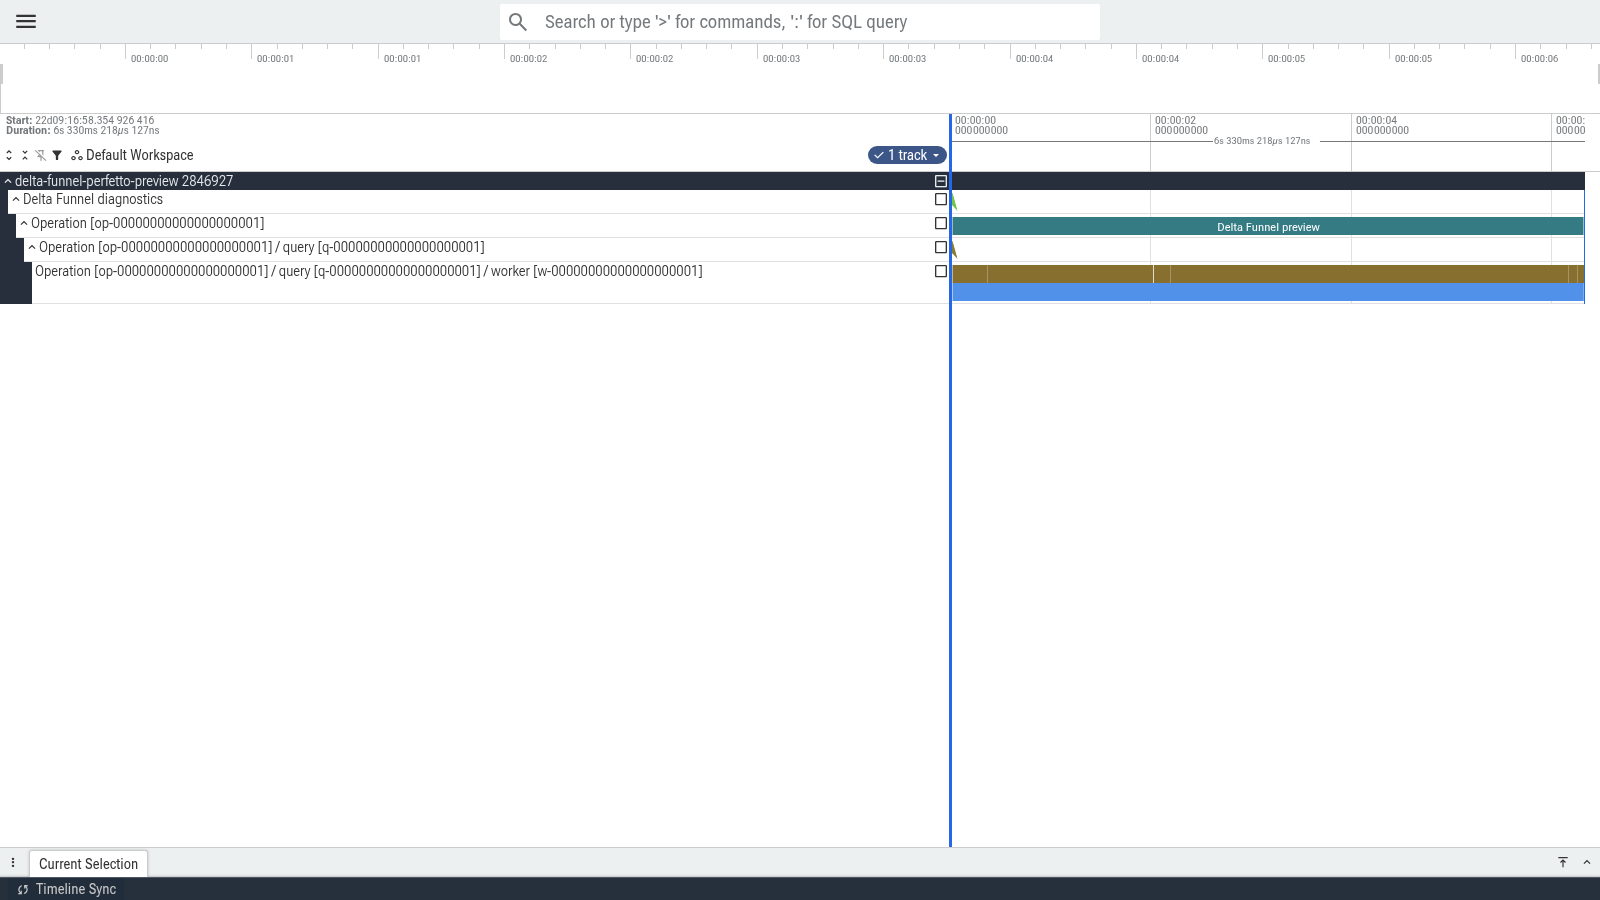
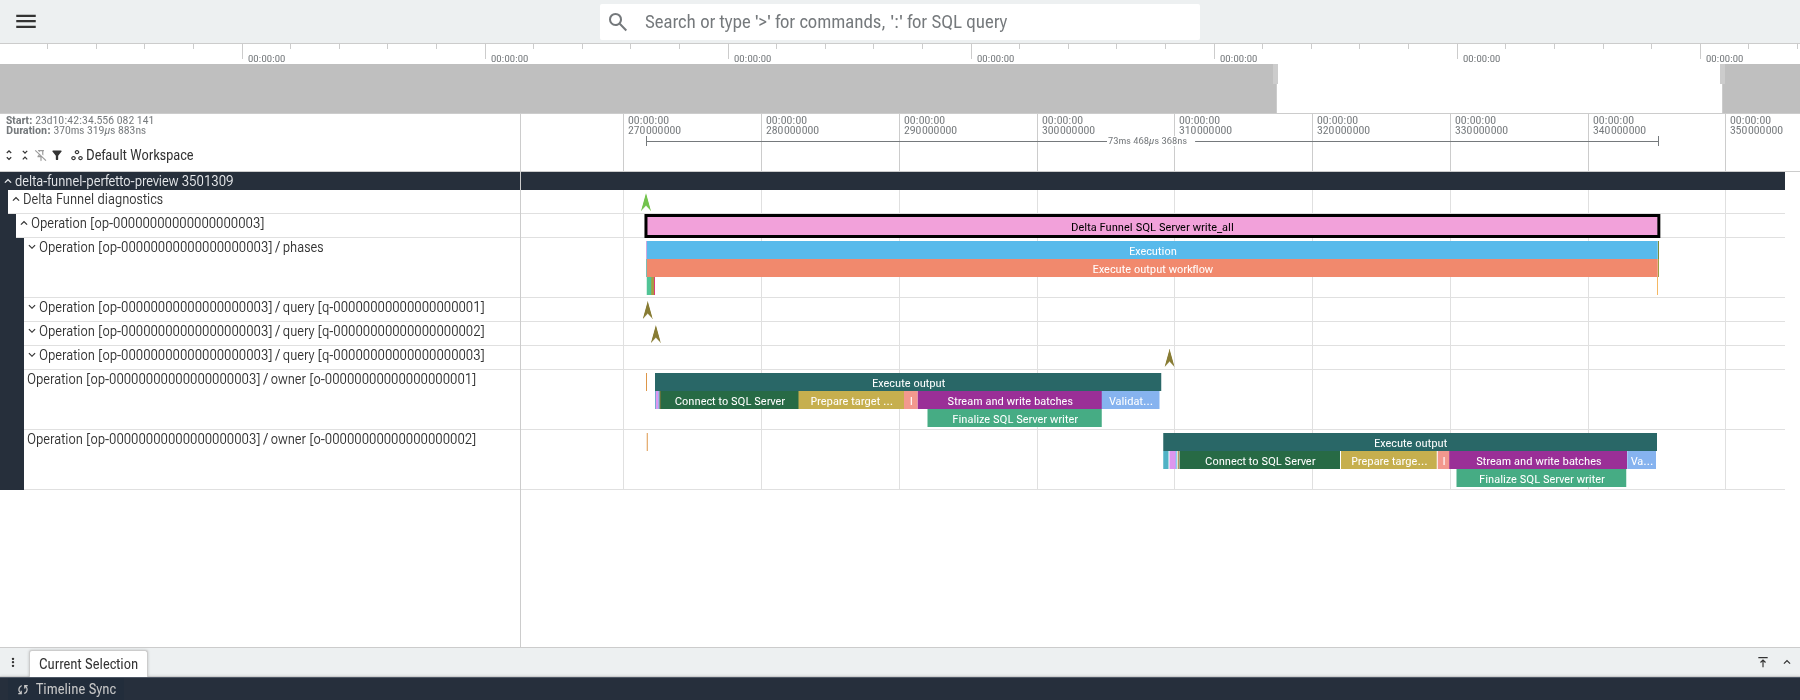
fix: clarify end-to-end output execution profiling

diff --git a/crates/delta-funnel/src/orchestrator/session/sql_server_workflows/write_all/request.rs b/crates/delta-funnel/src/orchestrator/session/sql_server_workflows/write_all/request.rs
@@ -1141,7 +1141,7 @@ mod tests {
                     [
                         ("Plan output schema", "ok"),
                         ("Plan SQL Server target", "ok"),
-                        ("Write output", "ok"),
+                        ("Execute output", "ok"),
                         ("Build query DataFrame", "ok"),
                         ("Build physical plan", "ok"),
                         ("Set up query stream", "ok"),
@@ -1330,10 +1330,10 @@ mod tests {
             let stages = process_write_all_stages(&capture);
             assert!(stages.iter().all(|(name, _, _)| name != "Plan caches"));
             assert!(stages.iter().any(|(name, owner, result)| {
-                name == "Write output" && owner.as_deref() == Some("1") && result == "error"
+                name == "Execute output" && owner.as_deref() == Some("1") && result == "error"
             }));
             assert!(!stages.iter().any(|(name, owner, _)| {
-                name == "Write output" && owner.as_deref() == Some("2")
+                name == "Execute output" && owner.as_deref() == Some("2")
             }));
             {
                 let events = events.lock().map_err(|_| "progress event lock poisoned")?;
@@ -1527,7 +1527,7 @@ mod tests {
             let first_output = timeline
                 .spans()
                 .iter()
-                .find(|span| span.name() == "Write output: big_output")
+                .find(|span| span.name() == "Execute output: big_output")
                 .ok_or("missing first output span")?;
             assert!(
                 install
@@ -1538,7 +1538,7 @@ mod tests {
             let second_output = timeline
                 .spans()
                 .iter()
-                .find(|span| span.name() == "Write output: selected_output")
+                .find(|span| span.name() == "Execute output: selected_output")
                 .ok_or("missing second output span")?;
             let restore = timeline
                 .spans()
@@ -1847,8 +1847,8 @@ mod tests {
             for expected_name in [
                 "Plan outputs",
                 "Execute output workflow",
-                "Write output: first_output",
-                "Write output: second_output",
+                "Execute output: first_output",
+                "Execute output: second_output",
                 "Report sources",
             ] {
                 assert!(
@@ -1862,12 +1862,12 @@ mod tests {
             let first_span = timeline
                 .spans()
                 .iter()
-                .find(|span| span.name() == "Write output: first_output")
+                .find(|span| span.name() == "Execute output: first_output")
                 .ok_or("missing first output span")?;
             let second_span = timeline
                 .spans()
                 .iter()
-                .find(|span| span.name() == "Write output: second_output")
+                .find(|span| span.name() == "Execute output: second_output")
                 .ok_or("missing second output span")?;
             assert!(
                 first_span
@@ -2068,14 +2068,14 @@ mod tests {
             let failed_output_span = timeline
                 .spans()
                 .iter()
-                .find(|span| span.name() == "Write output: second_output")
+                .find(|span| span.name() == "Execute output: second_output")
                 .ok_or("missing failed output span")?;
             assert_eq!(failed_output_span.status().as_str(), "failed");
             assert!(
                 timeline
                     .spans()
                     .iter()
-                    .all(|span| span.name() != "Write output: third_output")
+                    .all(|span| span.name() != "Execute output: third_output")
             );
             assert!(report.to_trace_event_json_value().is_some());
 
@@ -2952,7 +2952,7 @@ mod tests {
                 timeline
                     .spans()
                     .iter()
-                    .all(|span| !span.name().starts_with("Write output:"))
+                    .all(|span| !span.name().starts_with("Execute output:"))
             );
             assert_eq!(
                 failure.to_json_value()["operation_timeline"]["status"],

diff --git a/crates/delta-funnel/src/sql_server/execution/workflow.rs b/crates/delta-funnel/src/sql_server/execution/workflow.rs
@@ -929,8 +929,8 @@ where
         .as_ref()
         .and_then(|_| {
             stage_context.start_with_timeline_name(
-                "Write output",
-                format!("Write output: {}", target.output_name()),
+                "Execute output",
+                format!("Execute output: {}", target.output_name()),
                 "delta_funnel.write_all.output",
                 format!("Output: {}", target.output_name()),
             )

diff --git a/docs-site/docs/contributing/profiling.md b/docs-site/docs/contributing/profiling.md
@@ -319,25 +319,32 @@ Operation
   Query
     Worker
       Operator and lower-level activity
+  Output owner
+    Output execution stages
 ```
 
-If the trace contains many workers, click the funnel-shaped track filter and
-paste an exact worker token such as `w-00000000000000000001]`. The closing
-bracket prevents worker 1 from also matching worker 10 or worker 14. Expand the
-remaining parent tracks to keep the operation, query, and worker ancestry in
-view.
+To isolate one operation, click the funnel-shaped track filter and paste its
+exact token, including the closing bracket, such as
+`op-00000000000000000003]`. The closing bracket prevents a shorter numeric ID
+from matching a longer one. Use the same technique with a worker token such as
+`w-00000000000000000001]` when a query contains many parallel workers. Expand
+the remaining parent tracks to keep the relevant ancestry in view.
 
-[![Full Perfetto timeline filtered to one logical worker](../assets/perfetto-semantic-hierarchy.png)](../assets/perfetto-semantic-hierarchy.png)
+[![Full Perfetto timeline filtered to one SQL Server write_all operation](../assets/perfetto-semantic-hierarchy.png)](../assets/perfetto-semantic-hierarchy.png)
 
-The full viewport above keeps the 6.33-second wall-clock ruler and complete
-semantic ancestry visible while showing only worker 1.
+The full viewport above shows a real SQL Server `write_all` operation. Each
+output owner contains an end-to-end `Execute output` parent. Its children show
+query setup and the actual SQL Server lifecycle, including connection, target
+preparation, streaming writes, writer finalization, and validation, on the
+same wall-clock ruler.
 
-Drag across the worker track to select the time range you want to investigate.
-Temporarily clear the name filter, check `Process callstacks cpu-clock`, and
-then reapply the worker filter. The toolbar should now say `2 tracks`. Open
-`Current Selection`, choose `Perf sample flamegraph`, and keep `Top Down`
-selected. The semantic tracks show exact wall-clock intervals; the flame graph
-shows statistical on-CPU native samples from the same selected interval.
+Drag across an output owner or worker track to select the time range you want
+to investigate. Temporarily clear the name filter, check
+`Process callstacks cpu-clock`, and then reapply the exact operation or worker
+filter. Open `Current Selection`, choose `Perf sample flamegraph`, and keep
+`Top Down` selected. The semantic tracks show exact wall-clock intervals; the
+flame graph shows statistical on-CPU native samples from the same selected
+interval.
 
 [![Perfetto Top Down native flame graph](../assets/perfetto-native-flamegraph.png)](../assets/perfetto-native-flamegraph.png)
 